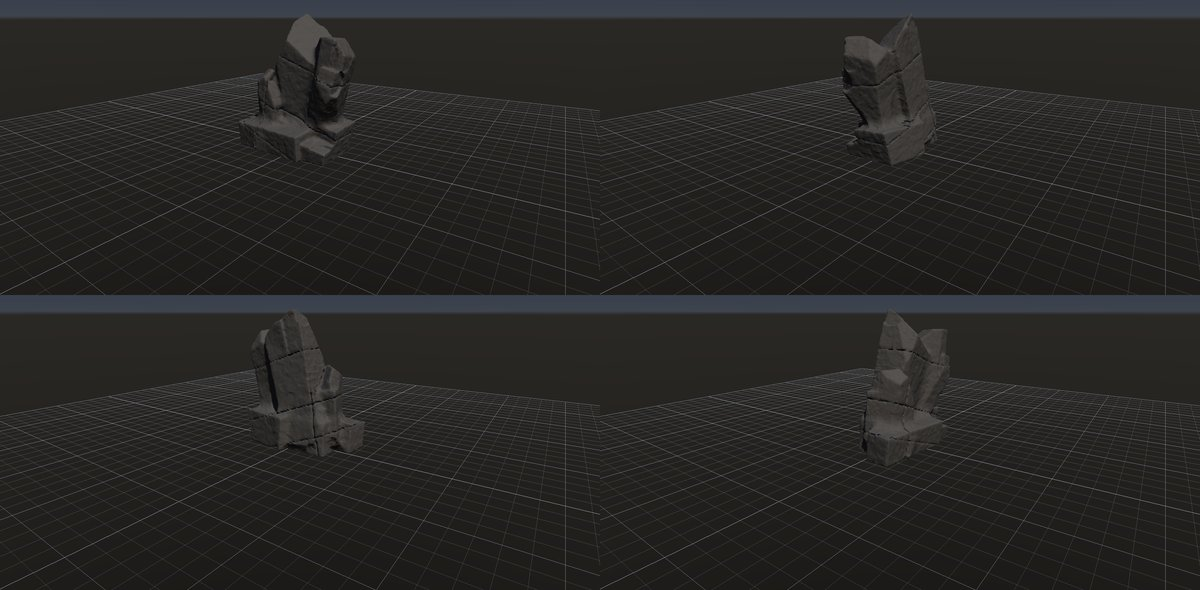
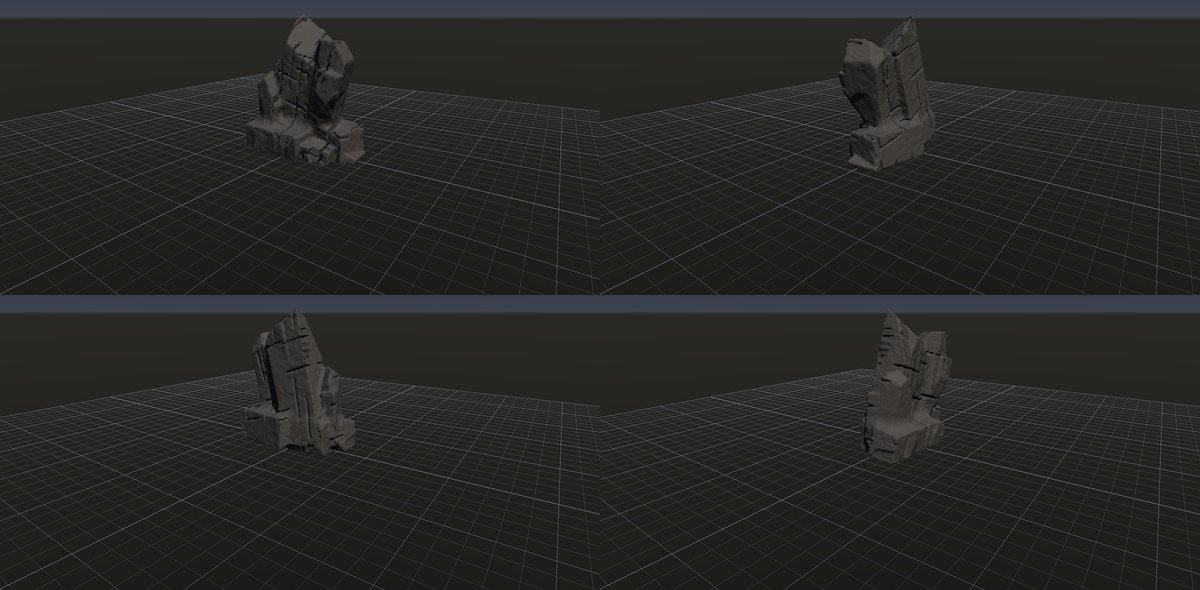
feat: Volume Crack に途中で止まる有限の割れ目を足す
Planes 入力の割れ目は構造面を端から端まで彫るので、並ぶと石積みの格子に見えた。
割れ目の長さ（extent）・割れている割合（coverage）・段違い（stagger）を足し、
面をセルに分けて先端の閉じた楕円の割れ目を置く。長さ 0 は従来と同じ結果。
granite-buttress と platy-joints に使った。

diff --git a/src/geometry/Volume.cpp b/src/geometry/Volume.cpp
@@ -1018,6 +1018,10 @@ static VolumeGrid CrackVolumeImpl(const VolumeGrid& g, const std::vector<Vec3>& 
         error = "ゆらぎの細かさは 0.5～16 にしてください";
         return {};
     }
+    if (!range(s.extent, 0, 1) || !range(s.coverage, 0, 1) || !range(s.stagger, 0, 1)) {
+        error = "割れ目の長さ・割合・段違いは 0～1 にしてください";
+        return {};
+    }
     const float longest = InteriorLongestSide(g);
     if (longest <= 0) {
         error = "入力のボリュームに内部がありません";
@@ -1060,14 +1064,56 @@ static VolumeGrid CrackVolumeImpl(const VolumeGrid& g, const std::vector<Vec3>& 
     }
     if (planes) {
         const auto last = g.Position(g.dimensions[0]-1, g.dimensions[1]-1, g.dimensions[2]-1);
+        // 段違いでずれた割れ目が範囲の外の面から入ってくる分も展開する。
+        const float margin = halfWidth + (s.extent > 0 ? .45f * s.stagger * planes->spacing : 0);
         expanded = ExpandParallelPlanes(*planes,
-            {g.origin.x-halfWidth, g.origin.y-halfWidth, g.origin.z-halfWidth},
-            {last.x+halfWidth, last.y+halfWidth, last.z+halfWidth}, error);
+            {g.origin.x-margin, g.origin.y-margin, g.origin.z-margin},
+            {last.x+margin, last.y+margin, last.z+margin}, error);
         if (!error.empty()) return {};
         for (const auto& plane : expanded)
             planeFactors.push_back(std::clamp(1 - s.variation * 2 *
                 float(HashUnit(seed ^ uint64_t(plane.index))), 0.f, 1.f));
     }
+    // 有限の割れ目: 面の上の座標 (u, v) を一辺 cell のセルに分け、セルごとに楕円の割れ目を 1 つ置くかを決める。
+    // 楕円の中心はセルの中で ±0.3 セル、半径は 0.35～0.75 セルなので、届くのは隣のセルまで（3×3 を見ればよい）。
+    const bool finite = planes && s.extent > 0;
+    const float cell = s.extent * longest;
+    const float maxShift = planes ? .45f * s.stagger * planes->spacing : 0;
+    Vec3 axisU{1, 0, 0}, axisV{0, 0, 1};
+    if (finite) {
+        const Vec3 n = planes->normal;
+        const Vec3 up = std::abs(n.y) < .9f ? Vec3{0, 1, 0} : Vec3{1, 0, 0};
+        axisU = {n.y * up.z - n.z * up.y, n.z * up.x - n.x * up.z, n.x * up.y - n.y * up.x};
+        const float length = std::sqrt(Dot(axisU, axisU));
+        axisU = {axisU.x / length, axisU.y / length, axisU.z / length};
+        axisV = {n.y * axisU.z - n.z * axisU.y, n.z * axisU.x - n.x * axisU.z, n.x * axisU.y - n.y * axisU.x};
+    }
+    // 面 plane の割れ目のうち、点 (u, v, 法線方向の位置 t) に最も深く届くものの「幅 − 距離」。届かなければ -最大。
+    const auto finiteCarve = [&](const StructurePlane& plane, float width, float u, float v, float t) {
+        float best = -std::numeric_limits<float>::max();
+        const int64_t cu = int64_t(std::floor(u / cell)), cv = int64_t(std::floor(v / cell));
+        const uint64_t planeKey = seed ^ (uint64_t(plane.index) * 0x9E3779B97F4A7C15ull);
+        for (int64_t j = cv - 1; j <= cv + 1; ++j)
+            for (int64_t i = cu - 1; i <= cu + 1; ++i) {
+                const uint64_t key = planeKey ^ (uint64_t(i) * 0xC2B2AE3D27D4EB4Full) ^ (uint64_t(j) * 0x165667B19E3779F9ull);
+                const auto unit = [&](uint64_t salt) { return float(HashUnit(key ^ salt)); };
+                if (unit(0x11) >= s.coverage) continue;
+                const float centerU = (float(i) + .5f + (unit(0x22) - .5f) * .6f) * cell;
+                const float centerV = (float(j) + .5f + (unit(0x33) - .5f) * .6f) * cell;
+                const float a = (.35f + .4f * unit(0x44)) * cell, b = (.35f + .4f * unit(0x55)) * cell;
+                const float angle = unit(0x66) * 3.14159265f;
+                const float du = u - centerU, dv = v - centerV;
+                const float ru = (du * std::cos(angle) + dv * std::sin(angle)) / a;
+                const float rv = (dv * std::cos(angle) - du * std::sin(angle)) / b;
+                const float r2 = ru * ru + rv * rv;
+                if (r2 >= 1) continue;
+                // 楕円の開口: 中心で最も広く、縁で 0（先端が閉じる）。
+                const float open = width * std::sqrt(1 - r2);
+                const float shift = (2 * unit(0x77) - 1) * maxShift;
+                best = std::max(best, open - std::abs(t - (plane.offset + shift)));
+            }
+        return best;
+    };
     const bool inside = FillSlices(out, [&](uint32_t x, uint32_t y, uint32_t z) {
         const size_t index = out.Index(x, y, z);
         float value = g.values[index];
@@ -1092,11 +1138,16 @@ static VolumeGrid CrackVolumeImpl(const VolumeGrid& g, const std::vector<Vec3>& 
                 }
             } else if (planes) {
                 const float projected = Dot(planes->normal, p);
+                const float u = finite ? Dot(axisU, p) : 0, v = finite ? Dot(axisV, p) : 0;
                 for (size_t i = 0; i < expanded.size(); ++i) {
                     const float width = reach * planeFactors[i];
                     // 閉じた面は彫らない。幅0の面をゼロ距離で評価すると、格子上に偽の隙間ができる。
-                    if (width > 0)
+                    if (!(width > 0)) continue;
+                    if (!finite) {
                         value = std::max(value, width - std::abs(projected - expanded[i].offset));
+                    } else if (std::abs(projected - expanded[i].offset) < width + maxShift) {
+                        value = std::max(value, finiteCarve(expanded[i], width, u, v, projected));
+                    }
                 }
             } else {
                 size_t nearest = 0;

diff --git a/tests/VolumeCrackTests.cpp b/tests/VolumeCrackTests.cpp
@@ -12,6 +12,7 @@ using namespace rock;
 namespace {
 void TestParallelPlanes();
 void TestShells();
+void TestFiniteCracks();
 bool Measure(const geometry::VolumeGrid& grid, geometry::MeshInfo& info,
              geometry::VolumeMeshingMethod method = geometry::VolumeMeshingMethod::MarchingTetrahedra) {
     std::string error;
@@ -220,11 +221,67 @@ void RunVolumeCrackTests() {
     const auto deeper = graph::EvaluateRocks(g, crack, &cache);
     Check(deeper.error.empty() && deeper.rocks[0].volume != rescattered.rocks[0].volume, "設定の変更で作り直す");
     TestParallelPlanes();
+    TestFiniteCracks();
     TestShells();
 }
 
 namespace {
 // 表面に沿う殻（シーティング・玉ねぎ状の風化）。外側の板がまだらに剥がれ落ちた段と、殻に沿う割れ目。
+void TestFiniteCracks() {
+    using namespace geometry;
+    Section("Volume Crack: 有限の割れ目（Planes）");
+    std::string error;
+    const auto box = MeshToVolume(MakeBox({2, 2, 2}), {64}, error);
+    MeshInfo boxInfo;
+    Check(Measure(box, boxInfo), "入力の立方体");
+    ParallelPlanesSettings ps; ps.spacing = .4f; ps.rotationDegrees = {0, 0, 80};
+    const auto planes = MakeParallelPlanes(ps, error);
+    VolumeCrackSettings infinite; infinite.width = .06f; infinite.depth = 1; infinite.noise = 0; infinite.variation = 0;
+    const auto full = CrackVolumeWithPlanes(box, planes, infinite, error);
+    VolumeCrackSettings legacy = infinite; legacy.coverage = .2f; legacy.stagger = 1;
+    Check(error.empty() && CrackVolumeWithPlanes(box, planes, legacy, error).values == full.values,
+          "長さ 0 では割合・段違いに関係なく従来の無限の面と同じ");
+    MeshInfo fullInfo, finiteInfo, denseInfo;
+    Measure(full, fullInfo);
+    VolumeCrackSettings finite = infinite; finite.extent = .25f; finite.coverage = .5f;
+    const auto patches = CrackVolumeWithPlanes(box, planes, finite, error);
+    Check(error.empty() && Measure(patches, finiteInfo) && Measure(patches, finiteInfo, VolumeMeshingMethod::DualContouring),
+          "有限の割れ目でも閉じた表面にできる");
+    Check(fullInfo.components > 1 && finiteInfo.components < fullInfo.components,
+          "貫く深さでも割れ目が途中で止まり、無限の面ほど形が分かれない");
+    Check(finiteInfo.volume > fullInfo.volume + .01 && finiteInfo.volume < boxInfo.volume - .01,
+          "彫る量は無限の面より少なく、0 ではない");
+    Check(patches.dimensions == box.dimensions && patches.origin == box.origin, "格子は入力のまま");
+    bool neverGrows = true;
+    for (size_t i = 0; i < box.values.size(); ++i) neverGrows &= patches.values[i] >= box.values[i];
+    Check(neverGrows, "有限の割れ目は形を広げない");
+    VolumeCrackSettings none = finite; none.coverage = 0;
+    Check(CrackVolumeWithPlanes(box, planes, none, error).values == box.values && error.empty(),
+          "割合 0 では何も彫らない");
+    VolumeCrackSettings dense = finite; dense.coverage = 1;
+    Check(Measure(CrackVolumeWithPlanes(box, planes, dense, error), denseInfo) && denseInfo.volume < finiteInfo.volume,
+          "割合を上げると彫る量が増える");
+    Check(CrackVolumeWithPlanes(box, planes, finite, error).values == patches.values, "同じ設定なら同じ結果");
+    VolumeCrackSettings reseeded = finite; ++reseeded.seed;
+    Check(CrackVolumeWithPlanes(box, planes, reseeded, error).values != patches.values, "Seed を変えると割れ目の配置が変わる");
+    VolumeCrackSettings staggered = finite; staggered.stagger = 1;
+    MeshInfo staggeredInfo;
+    const auto stepped = CrackVolumeWithPlanes(box, planes, staggered, error);
+    Check(error.empty() && stepped.values != patches.values && Measure(stepped, staggeredInfo),
+          "段違いで割れ目が面からずれ、閉じた表面を保つ");
+    VolumeCrackSettings longCracks = finite; longCracks.extent = .6f;
+    MeshInfo longInfo;
+    Check(Measure(CrackVolumeWithPlanes(box, planes, longCracks, error), longInfo) && longInfo.volume != finiteInfo.volume,
+          "長さを変えると割れ目の大きさが変わる");
+    const auto rejects = [&](auto change) {
+        VolumeCrackSettings bad = finite; change(bad);
+        const auto result = CrackVolumeWithPlanes(box, planes, bad, error);
+        return !error.empty() && result.values.empty();
+    };
+    Check(rejects([](auto& c) { c.extent = 1.1f; }), "長さが範囲外なら拒否する");
+    Check(rejects([](auto& c) { c.coverage = -.1f; }), "割合が範囲外なら拒否する");
+    Check(rejects([](auto& c) { c.stagger = std::numeric_limits<float>::quiet_NaN(); }), "非有限の段違いを拒否する");
+}
 void TestShells() {
     Section("Volume Crack: 表面に沿う殻");
     std::string error;

diff --git a/src/app/ApplicationGraphPanel.cpp b/src/app/ApplicationGraphPanel.cpp
@@ -2066,6 +2066,17 @@ void Application::DrawGraphPanel() {
             changed |= ui::PropertyFloat("ゆらぎ", &edited.noise, 0, 1, .5f,
                                          "割れ目に沿った幅の変化。大きいほど途中で細くなり、途切れます。");
             changed |= ui::PropertyFloat("ゆらぎの細かさ", &edited.noiseScale, .5f, 16, 3);
+            if (!shells) {
+                changed |= ui::PropertyFloat("割れ目の長さ", &edited.extent, 0, 1, 0,
+                                             "Planes 入力のとき。0 なら面全体が割れ目で、端から端まで続きます。"
+                                             "正なら面をこの長さ（形の最長辺に対する比）のセルに分け、先端の閉じた割れ目を置きます。");
+                if (edited.extent > 0) {
+                    changed |= ui::PropertyFloat("割れている割合", &edited.coverage, 0, 1, .6f,
+                                                 "割れ目を置くセルの割合です。");
+                    changed |= ui::PropertyFloat("段違い", &edited.stagger, 0, 1, 0,
+                                                 "割れ目ごとに面の法線方向へずらします（最大で面の間隔の±45%）。段違いの節理になります。");
+                }
+            }
             changed |= ui::PropertyInt("Seed", &edited.seed, 0, 1000000000, 1);
             ui::EndPropertyTable();
         }
@@ -2083,6 +2094,9 @@ void Application::DrawGraphPanel() {
             edited.shellCount = std::clamp(edited.shellCount, 1, 32);
             edited.shellSmoothing = std::clamp(edited.shellSmoothing, 0.0f, .3f);
             edited.shellPeel = std::clamp(edited.shellPeel, 0.0f, 1.0f);
+            edited.extent = std::clamp(edited.extent, 0.0f, 1.0f);
+            edited.coverage = std::clamp(edited.coverage, 0.0f, 1.0f);
+            edited.stagger = std::clamp(edited.stagger, 0.0f, 1.0f);
             *crack = edited;
             m_graph.MarkDirty();
             MarkDocumentChanged();

diff --git a/src/io/GraphIo.cpp b/src/io/GraphIo.cpp
@@ -351,7 +351,8 @@ json WriteGraph(const graph::NodeGraph& graphData, const MaterialWriter& writeMa
                                    {"noiseScale", crack->noiseScale}, {"seed", crack->seed},
                                    {"source", geometry::VolumeCrackSourceName(crack->source)},
                                    {"shellSpacing", crack->shellSpacing}, {"shellCount", crack->shellCount},
-                                   {"shellSmoothing", crack->shellSmoothing}, {"shellPeel", crack->shellPeel}};
+                                   {"shellSmoothing", crack->shellSmoothing}, {"shellPeel", crack->shellPeel},
+                                   {"extent", crack->extent}, {"coverage", crack->coverage}, {"stagger", crack->stagger}};
         } else if (const auto* cuts = std::get_if<geometry::PlaneCutsSettings>(&node.settings)) {
             item["planeCuts"] = {{"count", cuts->count},
                                  {"scope", geometry::PlaneCutsScopeName(cuts->scope)},
@@ -1071,6 +1072,9 @@ bool ReadGraph(const json& node, graph::NodeGraph& graphData, const MaterialRead
                     settings.shellCount = ReadInt(*v, "shellCount", settings.shellCount);
                     settings.shellSmoothing = ReadFloat(*v, "shellSmoothing", settings.shellSmoothing);
                     settings.shellPeel = ReadFloat(*v, "shellPeel", settings.shellPeel);
+                    settings.extent = ReadFloat(*v, "extent", settings.extent);
+                    settings.coverage = ReadFloat(*v, "coverage", settings.coverage);
+                    settings.stagger = ReadFloat(*v, "stagger", settings.stagger);
                 }
                 created.settings = settings;
             } else if (created.kind == graph::NodeKind::PlaneCuts) {

diff --git a/src/graph/NodeParams.cpp b/src/graph/NodeParams.cpp
@@ -175,6 +175,12 @@ constexpr ParamDefinition kParams[] = {
      "shells 用。殻の形を表面の細かな凹凸からならす半径", C::Error},
     {K::VolumeCrack, "volumeCrack.shellPeel", T::Float, 0, 1, "比", "剥がれ",
      "shells 用。一番外の板が剥がれ落ちている割合（内側ほど剥がれにくい）。まだらの大きさは noiseScale。0 だと殻は表面に出ず見えない", C::Error},
+    {K::VolumeCrack, "volumeCrack.extent", T::Float, 0, 1, kLongest, "割れ目の長さ",
+     "Planes 入力用。0 で面全体が割れ目（端から端まで続く）。正なら面をこの長さのセルに分け、セルごとに先端の閉じた楕円の割れ目を置く（途中で止まる節理）", C::Error},
+    {K::VolumeCrack, "volumeCrack.coverage", T::Float, 0, 1, "比", "割れている割合",
+     "Planes 入力で extent > 0 のとき。割れ目を置くセルの割合。0 なら何も彫らない", C::Error},
+    {K::VolumeCrack, "volumeCrack.stagger", T::Float, 0, 1, "面の間隔 × ±0.45 に対する比", "段違い",
+     "Planes 入力で extent > 0 のとき。割れ目ごとに面の法線方向へずらし、段違い（雁行）の節理にする", C::Error},
     {K::VolumeNoise, "volumeNoise.type", T::Enum, N, N, "", "種類", "", C::Clamp, kNoiseTypes},
     {K::VolumeNoise, "volumeNoise.amount", T::Float, 0, 0.2, kLongest, "量", "削る深さの最大。内側へだけ削る", C::Error},
     {K::VolumeNoise, "volumeNoise.scale", T::Float, 0.5, 64, "最長辺あたりの山の数", "細かさ", "", C::Error},

diff --git a/src/geometry/Volume.h b/src/geometry/Volume.h
@@ -142,6 +142,13 @@ struct VolumeCrackSettings {
     // 割れ目に沿った幅のゆらぎ。0～1。noiseScale は最長辺あたりのノイズの山の数。0.5～16。
     float noise = .5f;
     float noiseScale = 3;
+    // Planes 入力の有限の割れ目。面を一辺 extent（最長辺に対する比）のセルに分け、セルごとに楕円の割れ目を
+    // 置くかを coverage の割合で決める。幅は楕円の縁へ向かって 0 に細り、先端が閉じる。
+    // stagger は割れ目ごとに面の法線方向へずらす量（面の間隔 × ±0.45 に対する比）で、段違いの節理になる。
+    // extent 0 なら面全体が割れ目（従来の無限の面）。
+    float extent = 0;     // 0～1。
+    float coverage = .6f; // 0～1。
+    float stagger = 0;    // 0～1。
     int seed = 1;
 };
 // Volume Noise。表面をノイズで削り、サンプル位置をずらして直線的な面や割れ目を崩す。

diff --git a/src/graph/RockEvaluator.cpp b/src/graph/RockEvaluator.cpp
@@ -104,6 +104,7 @@ std::optional<std::string> VolumeKey(const NodeGraph& graph, GraphId id, const s
         if (!s) return std::nullopt;
         add(s->width); add(s->depth); add(s->variation); add(s->noise); add(s->noiseScale); add(s->seed);
         add(int(s->source)); add(s->shellSpacing); add(s->shellCount); add(s->shellSmoothing); add(s->shellPeel);
+        add(s->extent); add(s->coverage); add(s->stagger);
     } else if (node->kind == NodeKind::PlaneCuts) {
         const auto* s = std::get_if<geometry::PlaneCutsSettings>(&node->settings);
         if (!s) return std::nullopt;

diff --git a/docs/research/rocks.md b/docs/research/rocks.md
@@ -1,7 +1,7 @@
 # 岩の研究ページ
 
 作成日時: 2026-10-01 12:50
-更新日時: 2026-10-01 13:27
+更新日時: 2026-10-01 13:40
 
 「あらゆる種類の岩を作れること」を目標に、岩の種類ごとに今の出来・作り方・課題・改善の履歴を残すページ。一つずつ改善していく。足りないノードの整理（G 番号）は [岩の種類の網羅](../reference/rock-catalog.md)、組み方の手順は [skill](../../.claude/skills/rock-graph/SKILL.md)。
 
@@ -23,7 +23,7 @@
 | 岩 | 状態 | レシピ | 次に直したいこと |
 | --- | --- | --- | --- |
 | [塊状・節理で割れた岩](#塊状節理で割れた岩) | ○ | `blocky` | 節理面が大味 |
-| [板状節理](#板状節理) | △ | `platy-joints` | レンガ積みに見える |
+| [板状節理](#板状節理) | △ | `platy-joints` | 石積みの壁に見える・板の張り出しが無い |
 | [柱状節理](#柱状節理玄武岩) | ○ | `columnar` | 柱の頭の形・風化 |
 | [片理（結晶片岩）](#片理結晶片岩) | ○ | `schist` | 斜めの細溝のボクセルの段差 |
 | [スレート・頁岩](#スレート頁岩) | ○ | `slate` | 板が浮いて見える所 |
@@ -32,7 +32,7 @@
 | [河原の丸石](#河原の丸石) | ○ | `river-pebble` | 形が単調 |
 | [丸い転石](#丸い転石) | ○ | `rounded-boulder` | — |
 | [花崗岩のシーティング](#花崗岩のシーティング) | △ | `granite-sheeting` | 平らな面のボクセルの格子模様 |
-| [花崗岩の岩峰](#花崗岩の岩峰) | △ | `granite-buttress` | 根元の塊が台座に見える・節理が無限に続く |
+| [花崗岩の岩峰](#花崗岩の岩峰) | △ | `granite-buttress` | 根元の塊が台座に見える・面が平らすぎる |
 | [黒曜石・フリント](#黒曜石フリント) | ○ | `obsidian` | ガラス質の素材 |
 | [礫岩](#礫岩) | ○ | `conglomerate` | 礫と基質の色の違い |
 | [角礫岩](#角礫岩) | △ | `breccia` | 礫と基質の色の違い |
@@ -71,10 +71,11 @@
 
 - 状態: △
 - レシピ: [`platy-joints`](../../examples/ai-recipes/platy-joints.rockgraph)
-- 作り方: 不規則な塊（Random Boxes）を緩く傾いた Parallel Planes の Volume Crack で浅く彫り、直交する縦の節理を足す。Volume Close で繋ぎ直す。
-- 課題: 板の間隔と縦の節理が規則的で、レンガ積みのように見える。板ごとの張り出し・欠けが無い。
+- 作り方: 不規則な塊（Random Boxes）を緩く傾いた Parallel Planes の Volume Crack で浅く彫り、直交する縦の節理を足す。どちらも有限の割れ目（板の割れ目は長く途切れがち、縦の節理は短く段違い）。Volume Close で繋ぎ直す。
+- 課題: 割れ目が途切れて土嚢のような縞は消えたが、まだ石積みの壁のように見える。板ごとの張り出し・欠けが無い。
 - 履歴:
   - 2026-10-01 初版。最初は Box から始めて直方体が透けて見えたので、不規則な塊に変えた。
+  - 2026-10-01 Volume Crack の有限の割れ目を使った。以前は全面に同じ溝が通って土嚢を積んだように見えた。割れ目が途中で止まり、縦の節理が段違いになって石らしくなった。縦の節理の間隔は 0.9 → 0.5 m に詰めた。
 
 ### 柱状節理（玄武岩）
 
@@ -172,9 +173,10 @@
 - レシピ: [`granite-buttress`](../../examples/ai-recipes/granite-buttress.rockgraph)
 - 手本: 木曽駒ケ岳（宝剣岳〜千畳敷）の花崗岩の岩峰。ユーザーが撮った写真（`docs/references/DSC08761`・`DSC08749`。Git の対象外）。急傾斜の節理で縦長の塔に割れ、凍結破砕で尖る。塔は同じ向きに傾き、根元でつながる。
 - 作り方: 高さの違う塔 3 本を Random Boxes で別々に作り、それぞれ大きな平面（Plane Cuts の全体）で切って尖らせ、同じ傾きで並べて Volume Boolean の和でつなぐ。低い根元の塊も和にして大半を地面の下へ埋める。急傾斜（約 80°）と緩い横の Parallel Planes で浅い割れ目、節理と同じ 3 方向の局所の欠けで角を段状に落とす。高さ約 8.7 m。山グラフで斜面に撒く部品として使う想定。
-- 課題: 根元の塊が見える向きでは台座に見える。Parallel Planes の割れ目は岩の端から端まで続くので、実物のように途中で止まる節理や段違いが無い（有限の割れ目が要る）。塔の面が水晶のように平らすぎる向きがある。
+- 課題: 根元の塊が見える向きでは台座に見える。塔の面が水晶のように平らすぎる向きがある。
 - 履歴:
   - 2026-10-01 初版。縦長の塊 1 つを割れ目で塔に分ける案は、溝が格子に並んでレンガの柱になった（上が細らない）。全体を大きな平面で切ると高さが半分に縮んだ（水平に近い面が頂を削る）。塔を別々に作って和にする案に変えた。根元の塊を無くすと塔どうしが溶けて 1 つの塊になり、残して埋める形にした。割れ目は noise を上げると点線に途切れ、variation を下げると石積みの格子になるので、主な節理だけ幅を持たせ、横の節理は細く浅くした。
+  - 2026-10-01 Volume Crack に有限の割れ目（長さ・割合・段違い）を足して使った。節理が途中で止まって段違いにずれ、格子の感じが減った。主な節理は間隔 1.1 → 0.7 m・長さ 0.3・割合 0.55・段違い 0.8、横の節理は長さ 0.15・割合 0.35。
 
 ### 黒曜石・フリント
 

diff --git a/docs/reference/rock-catalog.md b/docs/reference/rock-catalog.md
@@ -1,7 +1,7 @@
 # 岩の種類の網羅（作れる岩と足りないノード）
 
 作成日時: 2026-10-01 08:30
-更新日時: 2026-10-01 13:27
+更新日時: 2026-10-01 13:40
 
 ## 目的
 
@@ -21,7 +21,7 @@
 | 岩 | 見た目の特徴 | 状態 | 作り方 / 足りないもの |
 | --- | --- | --- | --- |
 | 塊状・節理で割れた岩 | 大きな平らな節理面、角張った輪郭 | ○ | `blocky`（Random Boxes → Plane Cuts 3 系統 → 接地）。面が大味 |
-| 板状節理 | 平行な板状の割れ目、直交する縦の節理 | △ | `platy-joints`。少しレンガ積みに見える（節理の間隔と深さが均一すぎる） |
+| 板状節理 | 平行な板状の割れ目、直交する縦の節理 | △ | `platy-joints`（有限の割れ目で途中で止まる節理）。まだ石積みの壁に見える。板ごとの張り出しが無い |
 | 柱状節理（玄武岩） | 多角柱の束、柱ごとの高さの違い | ○ | `columnar`（縦に 16 倍伸ばした Voronoi、外周の片を除く、柱を細らせて隙間、一部を下げる） |
 | 片理（結晶片岩） | 急傾斜の薄い剥がれ、細溝、細長い破片 | ○ | `schist`。斜めの細溝にボクセルの段差が出る |
 | スレート・頁岩 | 水平に近い薄板の積み重ね、剥がれた縁 | ○ | `slate`（薄い Layered Boxes → Peel） |
@@ -30,7 +30,7 @@
 | 河原の丸石・円礫 | 平たく丸い、なめらか | ○ | `river-pebble`（楕円体 + 弱いノイズ、Marching Tetrahedra） |
 | 丸い転石・迷子石 | 丸いが大きな面が残る | ○ | `rounded-boulder` |
 | 花崗岩のコアストーン・シーティング | 丸い塊に、表面に沿って湾曲した剥離の割れ目 | △ | `granite-sheeting`（Volume Crack の「表面に沿う殻」。G3 で対応）。剥がれた板の段は出るが、平らな面にボクセルの格子模様が出る |
-| 花崗岩の岩峰（岩稜） | 急傾斜の節理で割れた尖った塔が並び、根元でつながる | △ | `granite-buttress`（塔を別々に作って Volume Boolean の和）。節理が端から端まで続き、途中で止まる割れ目が作れない（有限の割れ目が足りない） |
+| 花崗岩の岩峰（岩稜） | 急傾斜の節理で割れた尖った塔が並び、根元でつながる | △ | `granite-buttress`（塔を別々に作って Volume Boolean の和、Volume Crack の有限の割れ目）。根元の塊が台座に見える向きがある |
 | 黒曜石・フリントの貝殻状断口 | 滑らかに湾曲した割れ面、鋭い稜 | ○ | `obsidian`（Plane Cuts の「曲がり」。G4 で対応）。ガラス質の見た目は素材 |
 | 礫岩 | 丸い礫が埋まって突き出る | ○ | `conglomerate`（Volume Scatter の楕円体・和。G7 で対応）。礫と基質の色の違いは **G6** |
 | 角礫岩 | 角張った礫が埋まる | △ | `breccia`（Volume Scatter の箱・和）。形は出るが、礫と基質の色の違いが無いと弱い → **G6** |
@@ -71,6 +71,7 @@
 | G5 | 任意の方向で効かせる | **2026-10-01 実装**: Volume Smooth / Edge Wear の `focusDirection`（「向きに集中」の向き）。流下の溝は未。境目のヒレは、重みをぼかした場の法線で決めて解消した（ユーザー判断で既存のサンプル 2 件の結果が少し変わった） | 羊背岩、風食、片側の研磨。溶食の溝は一部 | 小（向き）/ 大（流れ） |
 | G6 | 構造・細部を素材で表す | **2026-10-01 実装**: [Structure Mask](structure-mask.md)（縞・脈）。擦痕のような細い溝を素材のハイトへ入れるのは未 | 片麻岩の縞、色の層、大理石の脈、擦痕 | 中 |
 | G7 | 小さな形を散らして足す・抜く | **2026-10-01 実装**: [Volume Scatter](volume-scatter.md)（球・楕円体・箱、和・差） | 礫岩・角礫岩、多孔質の溶岩・軽石、気泡 | 中〜大 |
+| G8 | 途中で止まる有限の割れ目 | **2026-10-01 実装**: Volume Crack の「割れ目の長さ・割れている割合・段違い」（Planes 入力。先端の閉じた楕円の割れ目） | 板状節理、花崗岩の岩峰、節理の段違い | 中 |
 
 ## 試作で分かったこと
 

diff --git a/docs/changelog.md b/docs/changelog.md
@@ -1,10 +1,12 @@
 # Changelog
 
 作成日時: 2026-09-20 20:05
-更新日時: 2026-10-01 12:59
+更新日時: 2026-10-01 13:40
 
 ## 未リリース
 
+- Volume Crack に有限の割れ目を追加（Planes 入力）。「割れ目の長さ」を正にすると、構造面を端から端まで割らずに、先端の閉じた楕円の割れ目を面の上に散らす。「割れている割合」と「段違い」（割れ目ごとに面の法線方向へずらす）を選べる。保存名 `extent` / `coverage` / `stagger`、既定の長さ 0 は従来と同じ結果。仕様は [Volume Crack](reference/volume-crack.md#有限の割れ目2026-10-01-追加)。レシピ `platy-joints` / `granite-buttress` に使った。
+- レシピ `granite-buttress`（花崗岩の岩峰）を追加。急傾斜の節理で割れた塔 2〜3 本が根元でつながる。
 - 岩のテンプレートから岩グラフを作れるようにした。「ファイル」→「テンプレートから作成…」（アセット欄の右クリックの「テンプレートから岩グラフを作成…」）で、片理・柱状節理・きのこ岩など 20 種を分類ごとのサムネイルから選ぶと、表示中のフォルダへ複製して開く。テンプレートは `examples/ai-recipes/` のレシピそのもので、ビルドで実行ファイルの横の `templates/` にコピーする。開発用の起動引数 `--open-templates` / `--template <id>` を追加。
 - 岩の研究ページ [docs/research/rocks.md](research/rocks.md) を追加。岩の種類ごとに 4 方向のスクリーンショット・状態・作り方・課題・改善の履歴を載せ、一つずつ改善していく。画像は `python tools/rock_research_shots.py [名前…]` でレシピから撮り直す。
 - Volume Smooth / Volume Edge Wear の「向きに集中」（上向きに集中）の重みを、ぼかした場の法線で決めるようにした。効く面と効かない面の境に薄いヒレが出ていたのを直した。この機能を使う既存のグラフは結果が少し変わる（サンプルの volume-edge-wear / volume-smooth-terrace ではヒレの小さな塊が消えた）。
